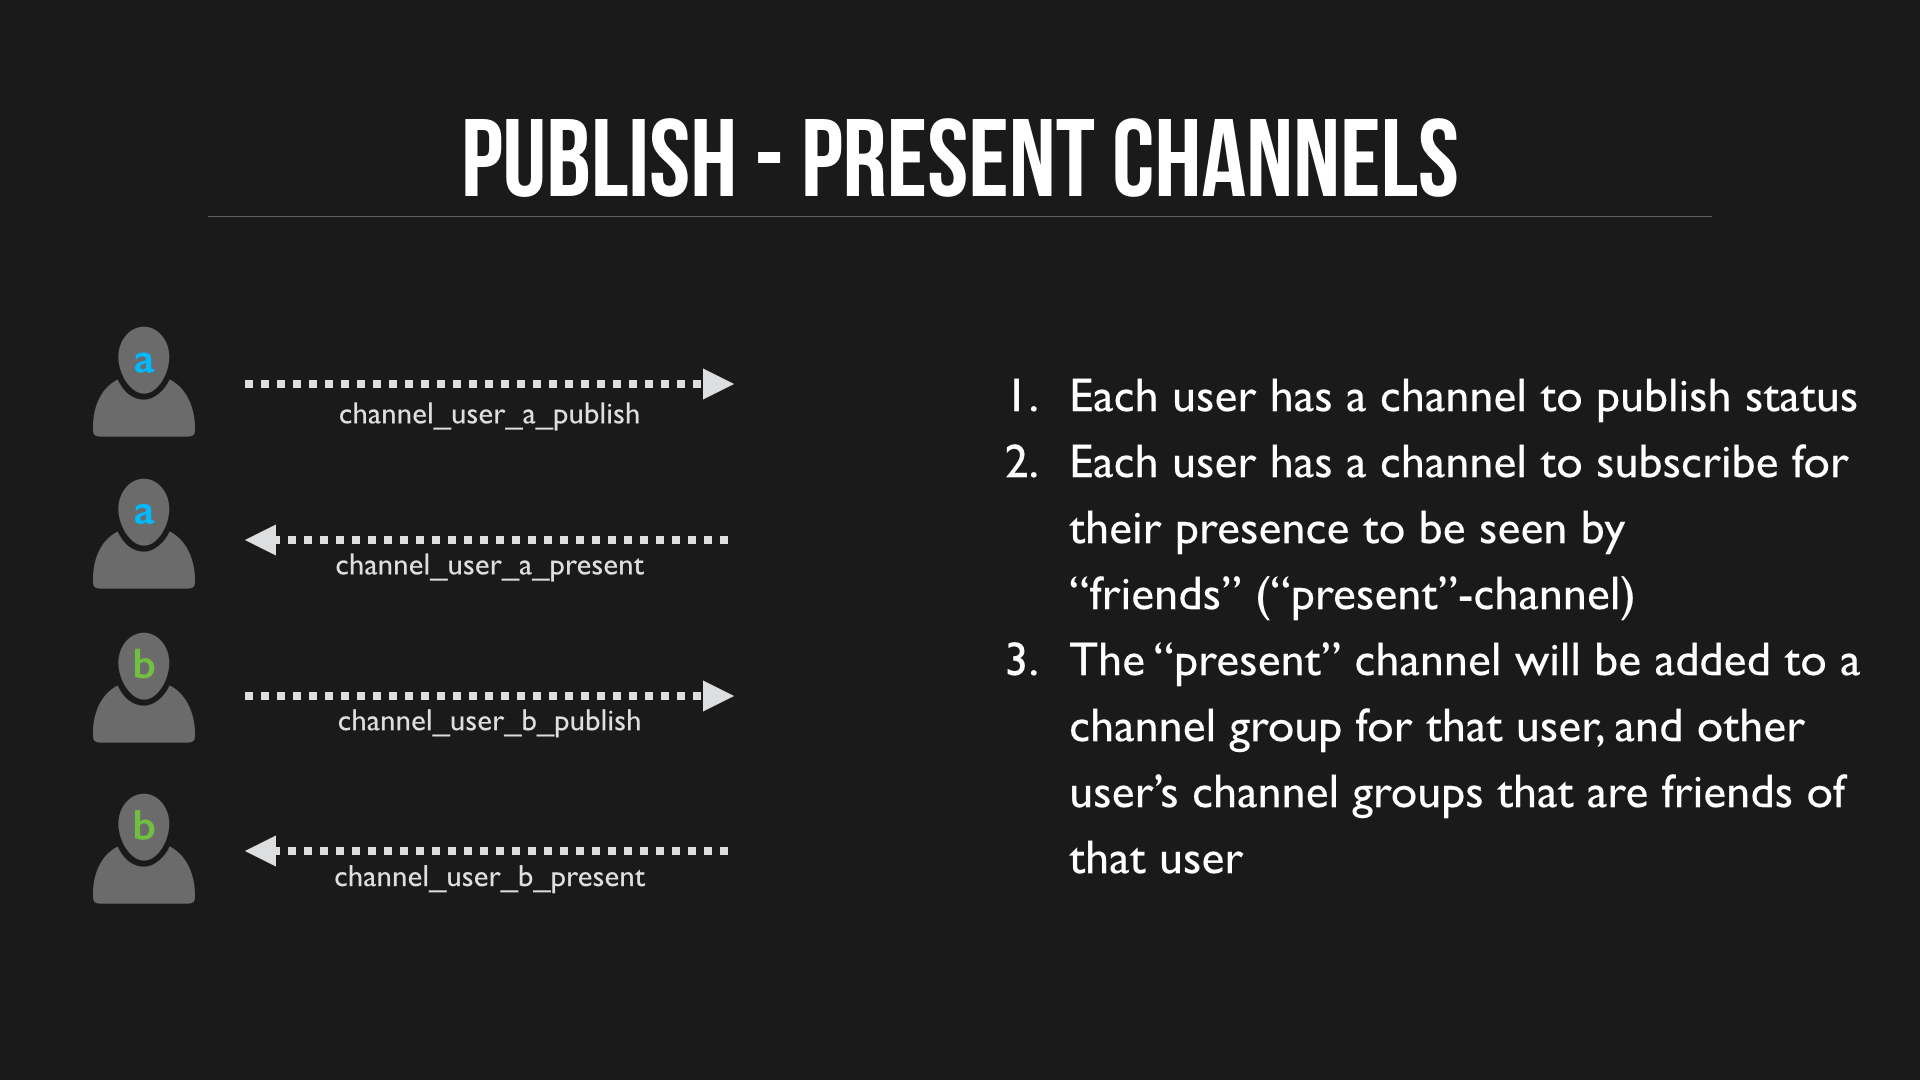
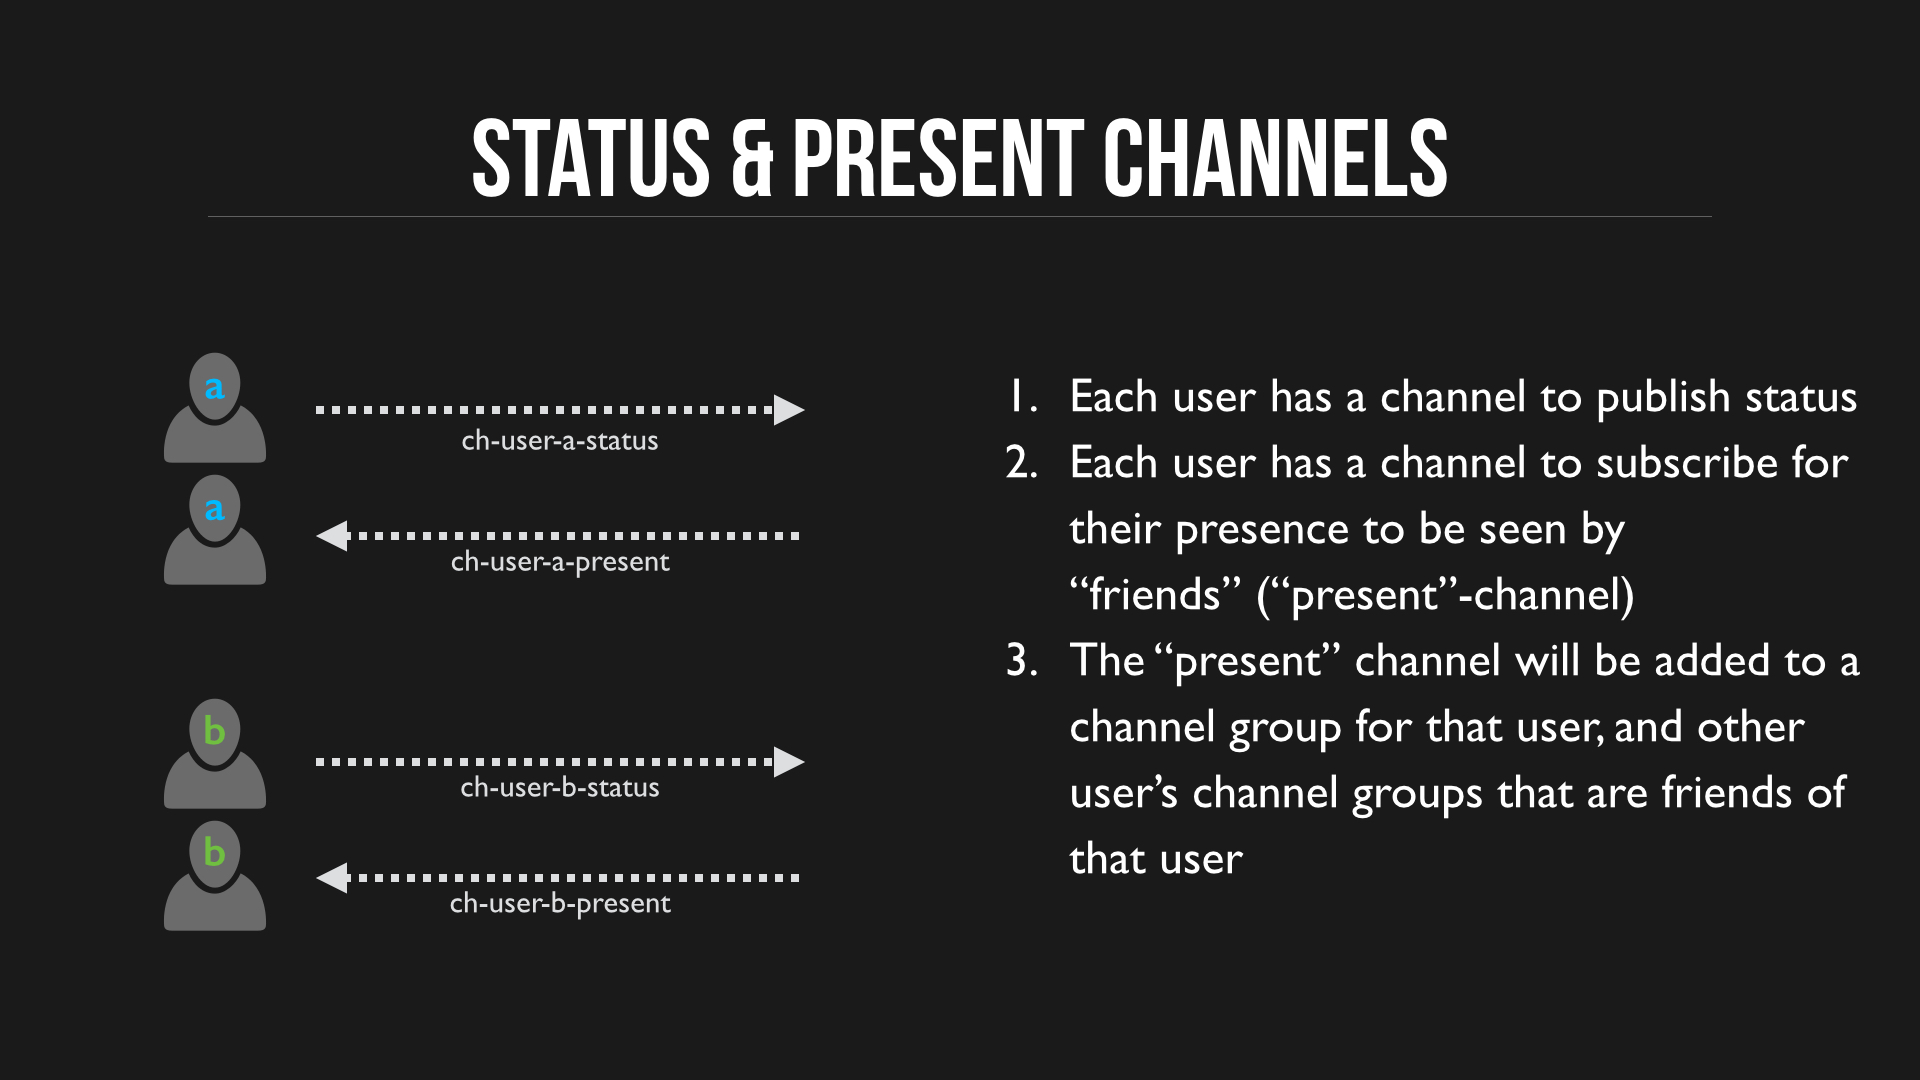
Updated advanced channel groups post

diff --git a/index.html b/index.html
@@ -12,7 +12,7 @@ layout: default
         <span class="post-meta">{{ post.date | date: "%b %-d, %Y" }}</span>
 
         <h2>
-          <a class="post-link" href="{{ post.url | prepend: site.baseurl }}">{{ post.title }}</a>
+          <a class="post-link" href="{{ post.url | prepend: site.baseurl }}">{% if post.ltitle %}{{ post.ltitle }}{% else %}{{ post.title }}{% endif %}{% if post.stitle %}<br /><small>{{ post.stitle }}</small>{% endif %}</a>
         </h2>
       </li>
     {% endfor %}

diff --git a/_layouts/post.html b/_layouts/post.html
@@ -4,7 +4,7 @@ layout: default
 <div class="post">
 
   <header class="post-header">
-    <h1 class="post-title">{{ page.title }}</h1>
+    <h1 class="post-title">{% if page.ltitle %}{{ page.ltitle }}{% else %}{{ page.title }}{% endif %}{% if page.stitle %}<br/><small>{{ page.stitle }}</small>{% endif %}</h1>
     <p class="post-meta">{{ page.date | date: "%b %-d, %Y" }}{% if page.author %} • {{ page.author }}{% endif %}{% if page.meta %} • {{ page.meta }}{% endif %}</p>
   </header>
 

diff --git a/_posts/2015-08-11-Advanced-Channel-Groups-Friend-Lists-Status-Feed-And-Presence.md b/_posts/2015-08-11-Advanced-Channel-Groups-Friend-Lists-Status-Feed-And-Presence.md
@@ -1,0 +1,303 @@
+---
+layout: post
+title: Friend Lists and Presence
+ltitle: Advanced Channel Groups 
+stitle: Friend Lists, Status Feed and Presence
+date:   2015-08-11
+author: Jasdeep Jaitla
+---
+
+Using the [Stream Controller](https://www.pubnub.com/products/stream-controller/) add-on and the 
+[Presence](https://www.pubnub.com/products/presence/) add-on, you can create simple Friend Graphs as well 
+as a Status message feed. In the case of the Friend Graph, it's a simple Follow/Followers model. Anything more 
+complex, such as a true multi-degree graph or an application that requires querying/traversing graphs, 
+might be better served with a specialized implementation that uses a graph database such as Neo4J or other
+more sophisticated data mechanisms, but to be honest, these types of use cases are fairly uncommon. 
+
+The essential feature required to implement this is the "Channel Group" feature, which can also be 
+thought of as a "Subscribe Group." The first concept to understand is what a Channel Group does. It groups 
+channels into a persistent collection of channels that you can modify dynamically, and it allows you to subscribe
+to all these channels by simply subscribing to the group.. 
+
+On the PubNub server side, all published messages and presence events are aggregated for all channels in the channel 
+group. What this means  is that if you subscribe to the Channel Group, you get all messages from all the channels in 
+the group in a single stream, if you subscribe to the presence events of the Channel Group, you get all the presence 
+events for all the channels in the channel group in a single stream.
+
+It's this multiplexing magic that allows for creating Friend Lists and Status Feeds. 
+
+## User Identification
+
+All Presence features use the UUID that is set on PubNub client initialization for tracking of that client,
+which typically is the user. While it's called a UUID, it doesn't have to follow the standard UUID format at all,
+it's a freeform string. The only real requirement (also not enforced), is that it's uniqe. 
+
+It's recommended to actually combine a unique identifier with the platform as well for instance:
+
+* 0c2340c2-8cc1-4898-8868-444ba77d02d2::ipad
+* 0c2340c2-8cc1-4898-8868-444ba77d02d2::web
+* 0c2340c2-8cc1-4898-8868-444ba77d02d2::android
+
+This way, not only do you track the user because you can see the uuid, but if the user is also using multiple
+platforms, you can see that too!
+
+If you don't supply your own UUID to PubNub init, one will be generated, but it may not be reused or saved 
+(depending on the platform), so you will want to set your own. Again it can follow any format you want.
+
+{% highlight javascript linenos %}
+
+// Initialize with UUID (from successful authentication response with backend)
+var p = PUBNUB.init({
+  publish_key: "...",
+  subscribe_key: "...",
+  uuid: "0c2340c2-8cc1-4898-8868-444ba77d02d2::web"
+});
+
+{% endhighlight %}
+
+In the case of the examples below, for readability, I am just going to use User A, User B, etc. and follow 
+a convention of ```ch-user-a-[xyz]``` for channels, and ```cg-user-a-[xyz]``` for channel groups.
+
+{% highlight javascript linenos %}
+
+// Initialize with UUID (from successful authentication response with backend)
+var p = PUBNUB.init({
+  publish_key: "...",
+  subscribe_key: "...",
+  uuid: "user-a"
+});
+
+{% endhighlight %}
+
+## User Channels
+
+Every user will need two channels: 1) a channel they publish to for their own status messages, 2) a 
+channel they subscribe to to indicate they are online. They will be unique for each user. For convenience,
+we will use user-[letter], like user-a or user-b, as the unique identifier.
+  
+We will follow this naming convention:
+
+* ch-user-a-status (publish)
+* ch-user-a-present (subscribe)
+
+
+![User Channels]({{ site.baseurl }}/images/friendlist/friendlist1.jpg)
+
+These channels will be added into Channel Groups to enable the monitoring and aggregation of both
+status messages into a Feed, as well as presence for online status. It's not required to do both if you 
+only want to support Friend Lists/Presence or you only want to support Status Feeds.
+
+{% highlight javascript linenos %}
+
+// Publish a status message
+p.publish({
+  channel: "ch-user-a-status",
+  message: { author: "user-a", status: "I am reading about Advanced Channel Groups!", timestamp: Date.now() / 1000 },
+  callback: function(m) {
+    console.log("PUB: ", m);
+  }
+});
+
+{% endhighlight %}
+
+
+## User Channel Groups
+
+Each user will also have two channel groups: 1) a channel group for observing the online status of friends, 2)
+a channel group to receive status updates in realtime. Again we'll use the same convention for unique user
+identifiers.
+
+We will follow this naming convention:
+
+* cg-user-a-friends
+* cg-user-a-status-feed
+
+![Channel Groups]({{ site.baseurl }}/images/friendlist/friendlist2.jpg)
+
+Creating channel groups requires you to add at least one channel to the group. This means that when you set up
+a user. The easiest way to do this is to simply add the "present" channel to each group. The example is in 
+Javascript, but typically you call these API methods from your backend server when a user registers for an account.
+
+{% highlight javascript linenos %}
+
+// Add ch-user-a-present to cg-user-a-friends
+p.channel_group_add_channel({
+  channel_group: "cg-user-a-friends",
+  channel: "ch-user-a-present",
+  callback: function(m) {
+    console.log("CG-Add: ", m);
+  }
+});
+
+// Add ch-user-a-present to cg-user-a-status-feed
+p.channel_group_add_channel({
+  channel_group: "cg-user-a-status-feed",
+  channel: "ch-user-a-present",
+  callback: function(m) {
+    console.log("CG-Add: ", m);
+  }
+});
+
+{% endhighlight %}
+
+## Friending
+
+Expanding the Friend graph through friending is very straightforward: You are simply adding channels
+to channel groups! In the case of User A and User B becoming friends, you are adding the "present"
+channel to each users' friends group, and adding the "status" channel to each users' status-feed group.
+Again, this is in Javascript, but you will want to call these API methods from your backend server
+when you receive a REST request that two users are friending each other.
+
+![Friending]({{ site.baseurl }}/images/friendlist/friendlist3.jpg)
+
+{% highlight javascript linenos %}
+
+// ************************************
+// * User A and User B become friends
+// ************************************
+
+// Add User B to User A's groups: Add ch-user-b-present to cg-user-a-friends
+p.channel_group_add_channel({
+  channel_group: "cg-user-a-friends",
+  channel: "ch-user-b-present",
+  callback: function(m) {
+    console.log("CG-Add: ", m);
+  }
+});
+
+// Add User B to User A's groups: ch-user-b-status to cg-user-a-status-feed
+p.channel_group_add_channel({
+  channel_group: "cg-user-a-status-feed",
+  channel: "ch-user-b-status",
+  callback: function(m) {
+    console.log("CG-Add: ", m);
+  }
+});
+
+// Add User A to User B's groups: Add ch-user-a-present to cg-user-b-friends
+p.channel_group_add_channel({
+  channel_group: "cg-user-b-friends",
+  channel: "ch-user-a-present",
+  callback: function(m) {
+    console.log("CG-Add: ", m);
+  }
+});
+
+// Add User B to User A's groups: ch-user-a-status to cg-user-b-status-feed
+p.channel_group_add_channel({
+  channel_group: "cg-user-b-status-feed",
+  channel: "ch-user-a-status",
+  callback: function(m) {
+    console.log("CG-Add: ", m);
+  }
+});
+
+{% endhighlight %}
+
+Now to see these working, it comes to how you subscribe. What's a bit different here
+is that you will subscribe to one group for messages (status-feed) but subscribe to 
+the other groups's Presence Event channel for the online/offline status (friends).
+
+## Friends Online/Offline (Presence)
+
+For Presence, we track the subscribers on a channel, and we create a *sister* channel
+based on the channel name for all the Presence Events on the main channel. This *sister*
+channel is simple the channel name + "-pnpres". So for channel ```ch-user-a-present```, the
+sister channel is ```ch-user-a-present-pnpres``` and that's where PubNub publishes Presence
+Events that occur on ```ch-user-a-present```. The Presence Events are as follows:
+ 
+* JOIN - client subscribed
+* LEAVE - client unsubscribed
+* TIMEOUT - client disconnected without unsubscribing after timeout period
+* STATE-CHANGE - client changed the contents of the state object
+
+and for each event, we also include the UUID and the channel occupancy (how many subscribers).
+
+To see your friends online/offline status and be updated in realtime, you subscribe
+to the friends channel group, but not directly, you subscribe to the Presence Event
+*sister* channel only, by appending "-pnpres" to the channel group name. 
+
+The reason you don't want to subscribe directly to the group is because Channel Groups are
+"Subscribe" groups, and therefore you would inadvertently subscribe to all that users' 
+friends' "present" channels! We are only interested in the Presence Events in this group.
+
+![Presence]({{ site.baseurl }}/images/friendlist/friendlist4.jpg)
+
+{% highlight javascript linenos %}
+
+// Which Friends are online right now
+p.here_now({
+  channel_group: "cg-user-a-friends-pnpres",
+  callback: function(m) {
+     console.log("ONLINE NOW: ", m);
+  }
+});
+
+// Watch Friends come online / go offline
+p.subscribe({
+  channel_group: "cg-user-a-friends-pnpres",
+  message: function(m,a,b,c) {
+    console.log("FRIENDS: ", m,a,b,c);
+  }
+});
+
+p.channel_group_channel_list({
+  channel_group: "cg-user-a-friends",
+  callback: function(m) {
+    console.log("FRIENDLIST: ", m);
+  }
+});
+
+{% endhighlight %}
+
+## Status Feed (Messages)
+
+The status-feed channel group is much more straightforward, you are going to subscribe directly to the
+channel group and you will receive status updates in realtime via each channel in the group.
+
+![Status Feed]({{ site.baseurl }}/images/friendlist/friendlist5.jpg)
+
+Since we include the "present" channel for this user in the channel group (```ch-user-a-present```), this also has the 
+net effect of subscribing to that channel, it also means it generates a JOIN event for every channel group that 
+includes this user's present channel. So, if User B is friends with User A, when User A subscribes to this status-feed
+channel group, it also subscribes to User A's present channel and generates that JOIN event, as well as all the
+other Presence events. 
+
+**NOTE**: If you implementing only the Friend List and not the Status Feed, User A will need to subscribe to this 
+```ch-user-a-present``` channel directly since User A isn't subscribing to the status feed group which includes
+this channel.
+
+{% highlight javascript linenos %}
+
+// Get Status Feed Messages
+p.subscribe({
+  channel_group: "cg-user-a-status-feed",
+  message: function(m,a,b,c) {
+    console.log("STATUS: ", m,a,b,c);
+  }
+});
+
+{% endhighlight %}
+
+## Summary
+
+Simple and powerful Friend Graphs are fairly easy to do with PubNub! I'd argue it's even easier than trying
+to develop a full backend to support the Presence and Status Feeds, and on top of that, it's realtime. Can't be
+beat! 
+
+![Summary]({{ site.baseurl }}/images/friendlist/friendlist6.jpg)
+
+Lastly is retrieving history of status messages can be a bit more work as you have to retrieve messages from each 
+channel in the group individually (each friend) and mash/sort them together client side. I'll make another post
+on how to do that, and a little bit of code that can handle it at least semi-auto-magically. 
+
+## Final Notes
+
+For every decision there is a counter-decision, and for every idea there is a more complex version. 
+I'll throw in a few caveats to this implementation, there are some interesting ways of changing Status Feeds that can 
+make things a bit trickier, one is "weighting" the status message, so that it's no longer chronological, but rather
+based on interests, or activity, or other things. Another layer of complexity that you can add is commenting on status
+items. Again, it requires a bit more logic here, and it might not be the simplest thing to do, but it depends on
+how you want it to work. It's certainly quite possible, but not quite *as easy* as the above.
+
+Happy coding!

diff --git a/_drafts/2015-03-30-Collecting-Data-Ingress-Patterns.md b/_drafts/2015-03-30-Collecting-Data-Ingress-Patterns.md
@@ -1,0 +1,30 @@
+---
+layout: post
+title: Collecting Data -- Ingress Patterns
+date:   2015-03-30
+author: Jasdeep Jaitla
+---
+
+Data Aggregation and collection is a common need for PubNub customers. There are a lot of different ways to approach this, and several high level patterns for achieving the end results. One of the primary concerns is addressing points where bottlenecks can occur and having a solution that is flexible and can be distributed as message volumes increase.
+
+
+Simple consistent hash function:
+
+{% highlight javascript linenos %}
+
+// 32 bit FNV-1a hash
+// Ref.: http://isthe.com/chongo/tech/comp/fnv/
+function fnv32a( str )
+{
+    var FNV1_32A_INIT = 0x811c9dc5;
+    var hval = FNV1_32A_INIT;
+    for ( var i = 0; i < str.length; ++i )
+    {
+        hval ^= str.charCodeAt(i);
+        hval += (hval << 1) + (hval << 4) + (hval << 7) + (hval << 8) + (hval << 24);
+    }
+    return hval >>> 0;
+}
+
+{% endhighlight %}
+

diff --git a/_posts/2015-03-06-Flexible-History-Calls.md b/_posts/2015-03-06-Flexible-History-Calls.md
@@ -5,6 +5,10 @@ date:   2015-03-08
 author: Jasdeep Jaitla
 ---
 
+***** Have to have 2 Channel Groups, one for Presence, one for Status, and you have to subscribe
+to the Channel Group -pnpres only *****
+
+
 Our Javascript History API allows you options for getting the time series data in a channel in flexible ways but always gives messages in 100 count pages.
 I wrote a simple wrapper that extends this functionality to handle the actual paging to retrieve messages based on time, counts, etc.
 
